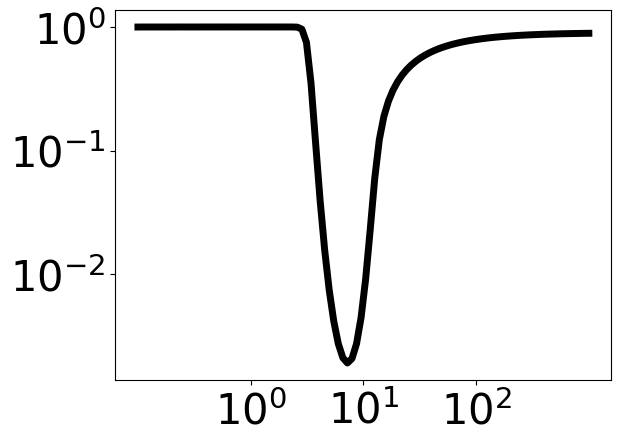
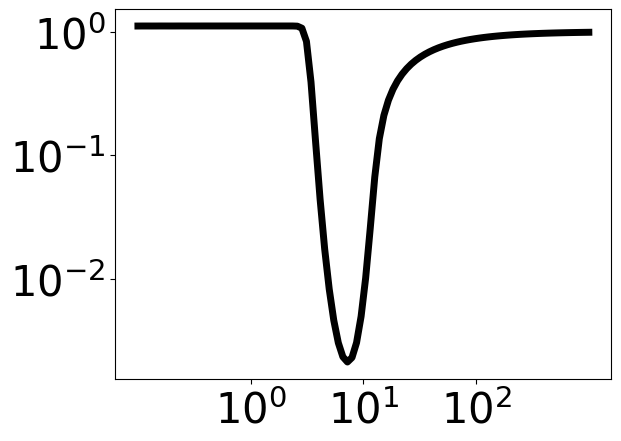
Correct figure 3 b

diff --git a/Simulations/Periodic/Global_Minimum/Plotting.py b/Simulations/Periodic/Global_Minimum/Plotting.py
@@ -433,7 +433,7 @@ MinCurvature = CurvLogLList[np.argmin(CurvLogdRList)]
 # Change in R with changing L
 fig = plt.figure()
 ax = fig.add_subplot(111)
-plt.plot(np.log10(LList),np.log10(dRList/LList), '-k',linewidth=5)
+plt.plot(np.log10(LList),np.log10(dRList/(LList* (1-w))), '-k',linewidth=5)
 
 #Formatting
 ax.set_xticks([0,1,2])
@@ -460,7 +460,7 @@ fig_height_mm = 90
 
 fig = plt.figure(2)
 ax = fig.add_subplot(111)
-plt.plot(np.log10(LList),np.log10(dRList/LList), '-k',linewidth=5)
+plt.plot(np.log10(LList),np.log10(dRList/LList*(1-w)), '-k',linewidth=5)
 #Create the stretched version
 
 plt.xticks(fontsize=30,fontname = "Arial")
